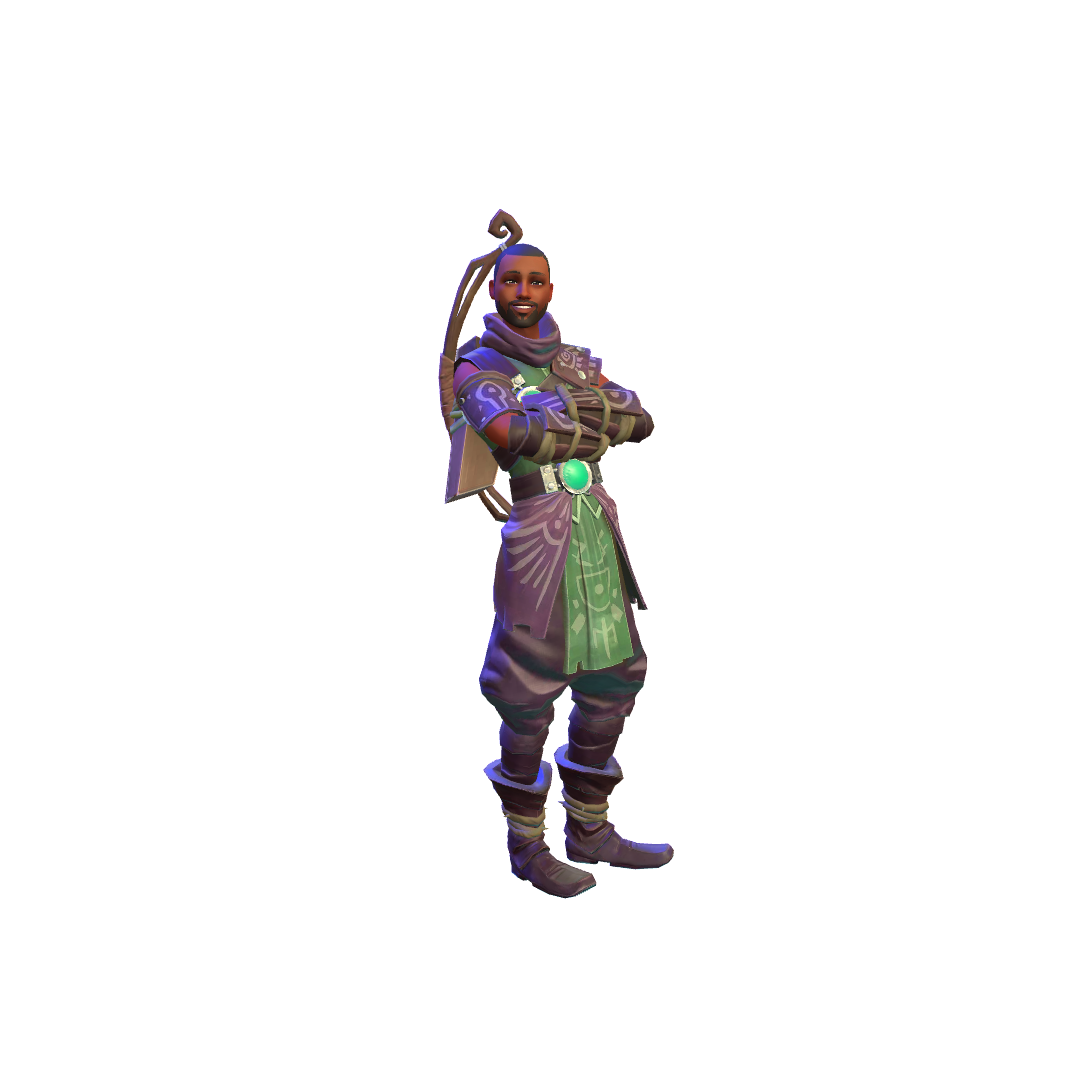
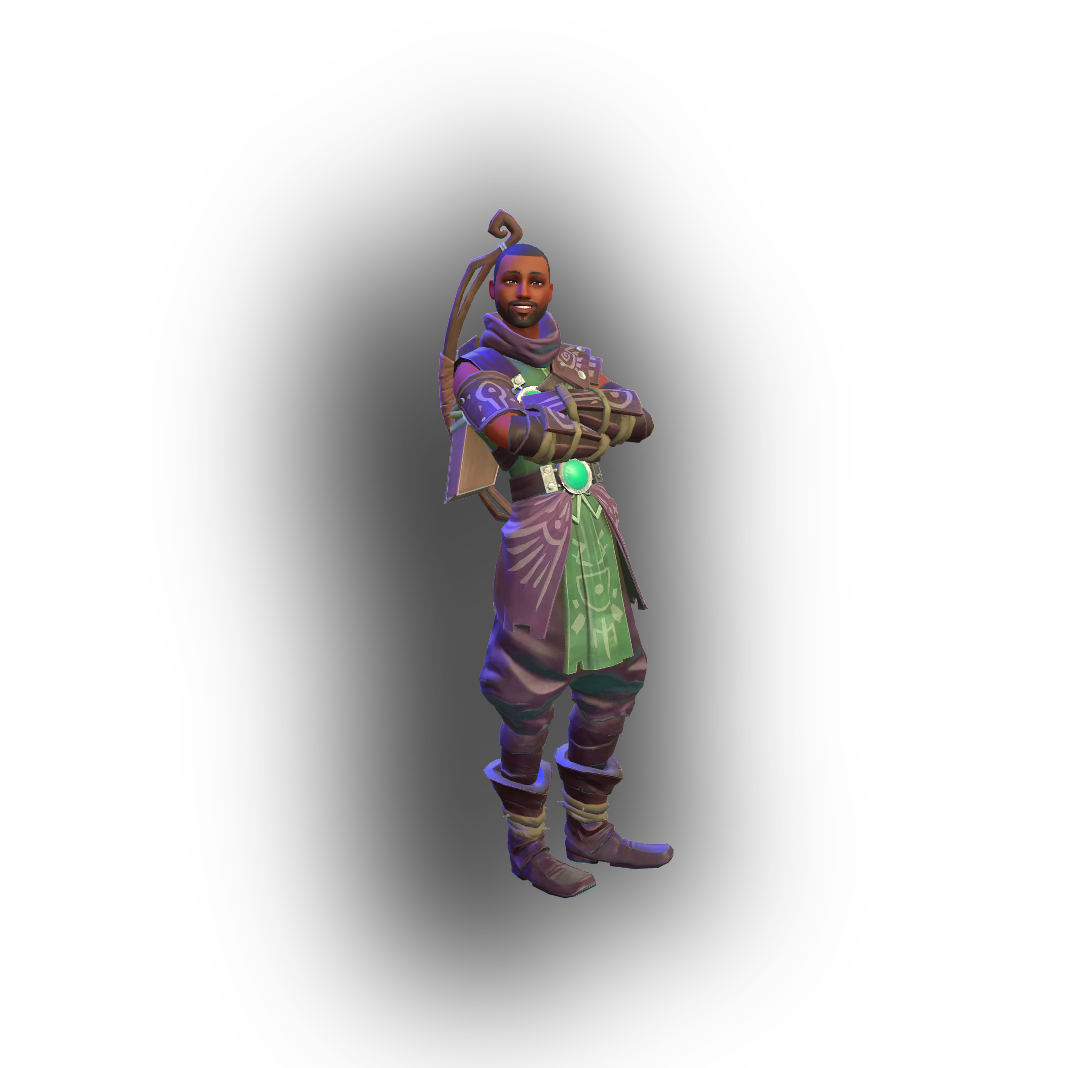
added styling for non desktop devices

Changed region(s): [[0.2163, 0.0927, 0.7107, 0.9888]]

diff --git a/src/styles/avatar.css b/src/styles/avatar.css
@@ -30,3 +30,19 @@
     );
     z-index: -1;
 }
+
+@media (max-width: 1100px) {
+    .avatar.skills {
+        z-index: -5;
+        height: 95vh;
+        bottom: -15vh;
+    }
+}
+
+@media (max-width: 700px) {
+    .avatar.about {
+        z-index: -5;
+        height: 95vh;
+        bottom: -15vh;
+    }
+}
